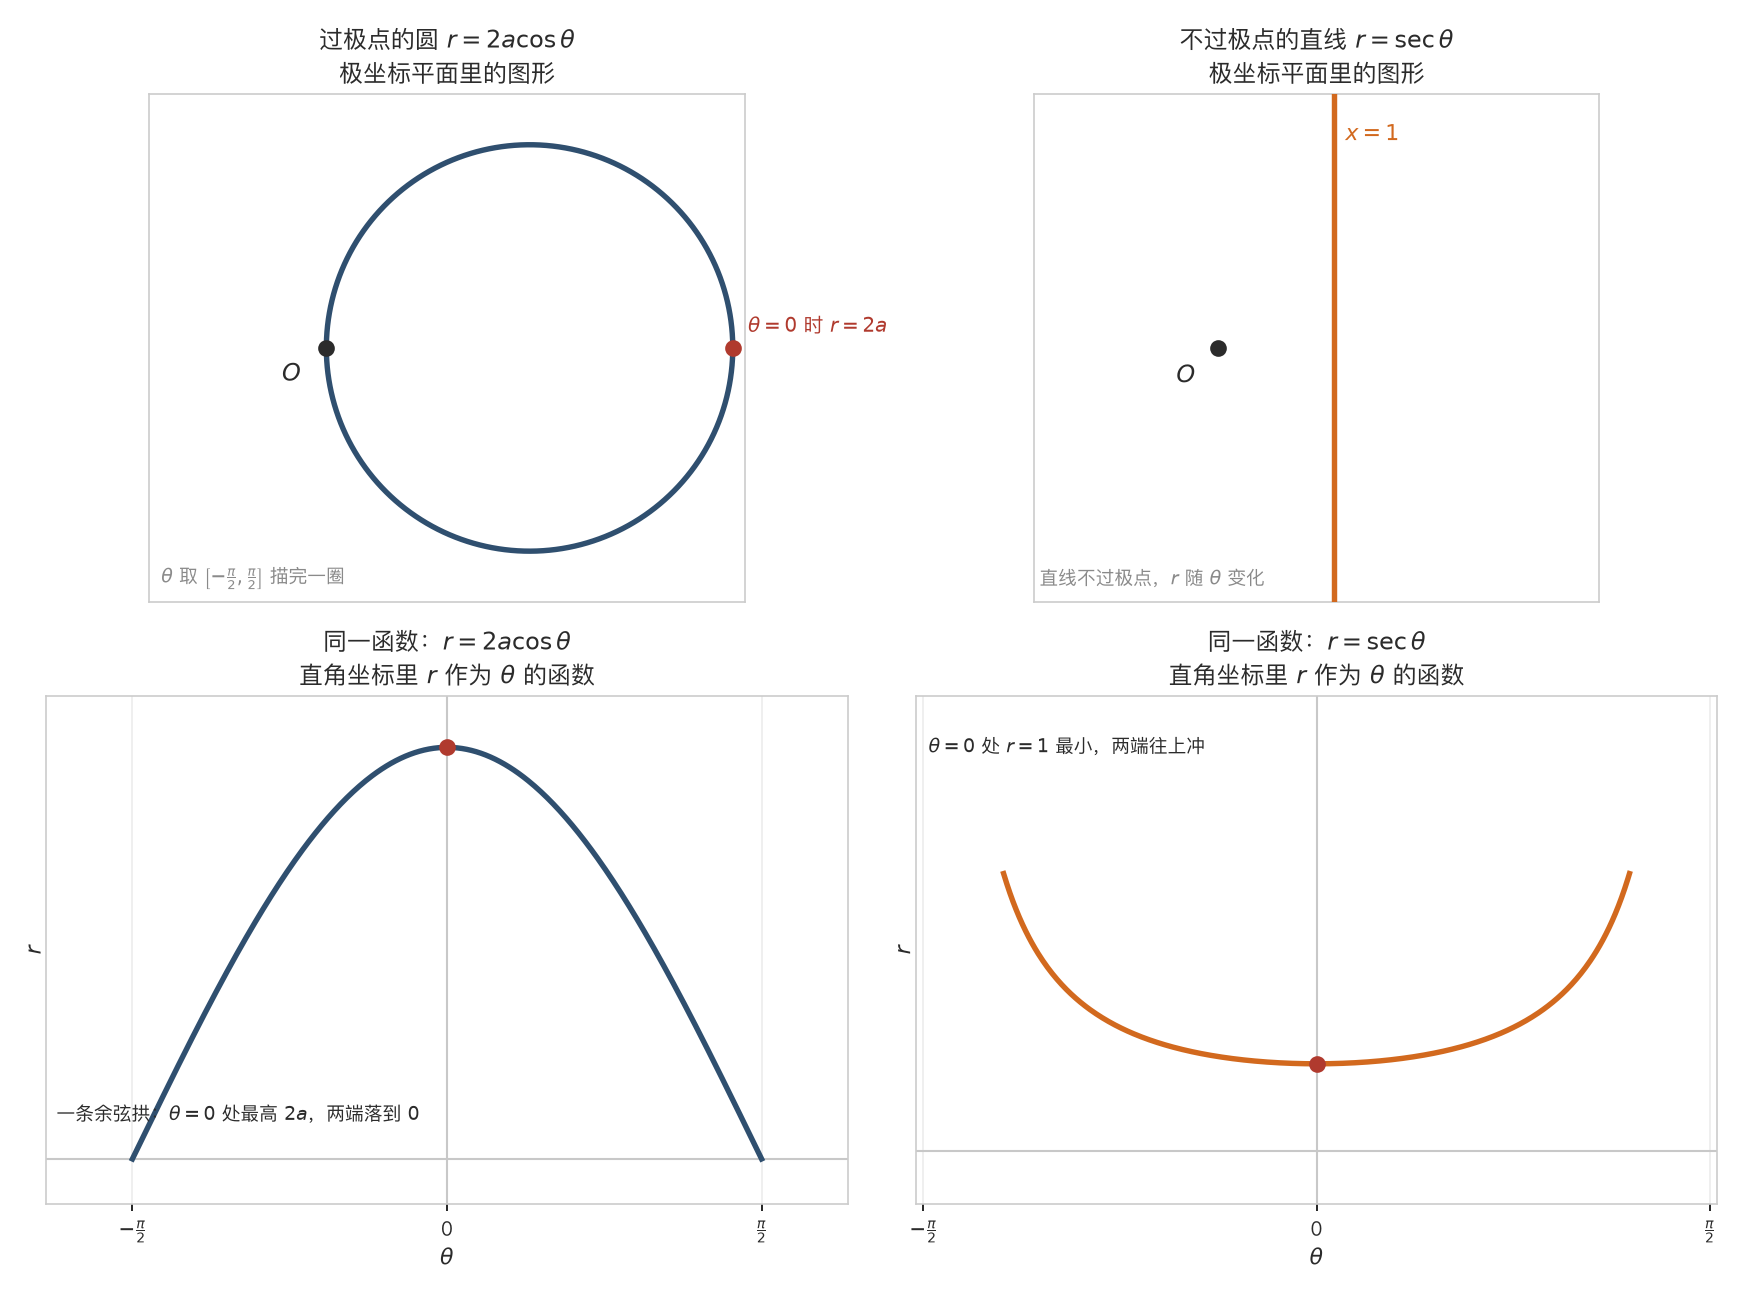
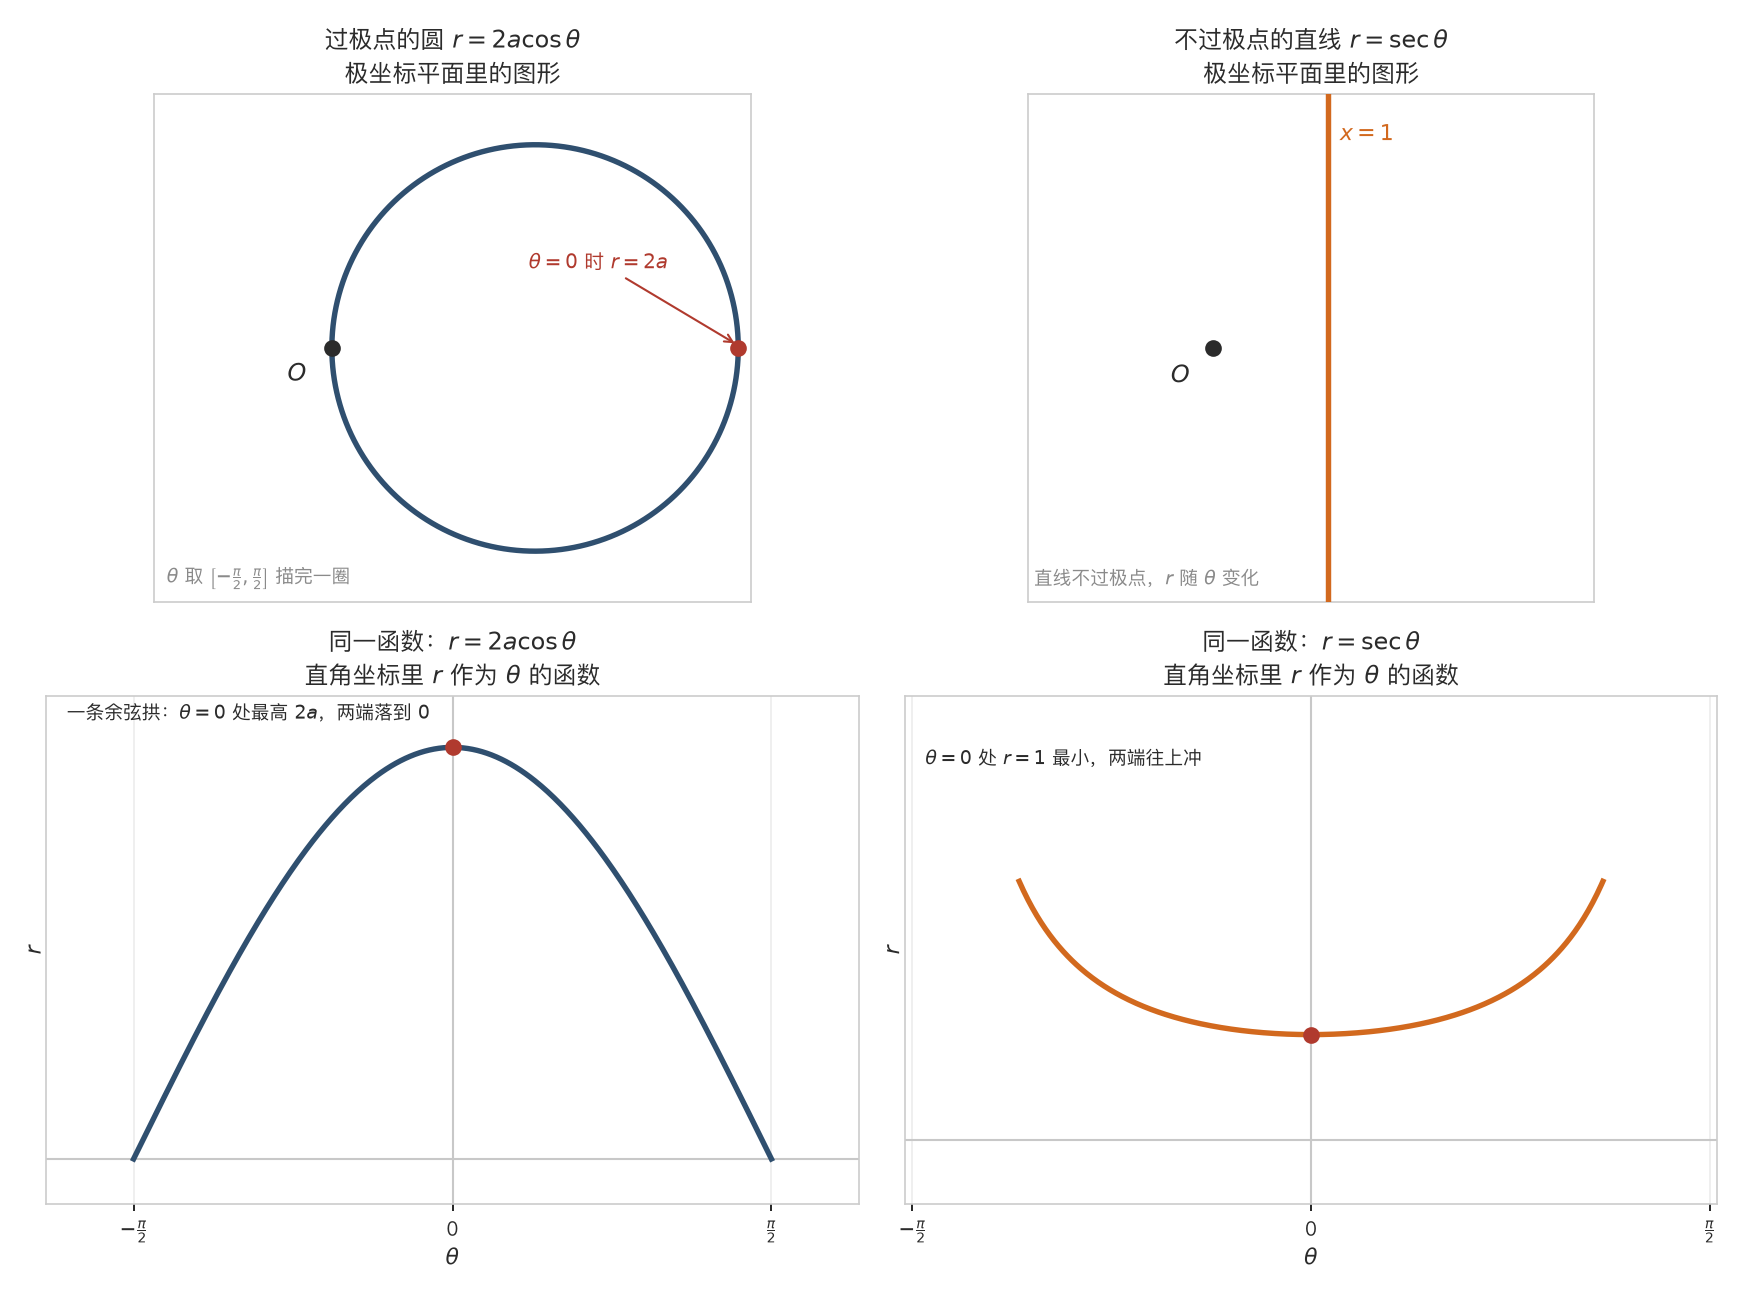
img: unify label placement in circle/line figure

diff --git a/img/kaoyan-math/make_polar_more.py b/img/kaoyan-math/make_polar_more.py
@@ -40,7 +40,8 @@ ax.plot(2 * a * np.cos(tt) * np.cos(tt), 2 * a * np.cos(tt) * np.sin(tt), color=
 ax.plot([0], [0], "o", color=INK, ms=7, zorder=6)
 ax.plot([2 * a], [0], "o", color=RED, ms=7, zorder=6)
 ax.text(-0.20, -0.26, "$O$", fontsize=F, color=INK, ha="right")
-ax.text(2 * a + 0.12, 0.12, "$\\theta=0$ 时 $r=2a$", fontsize=F - 2, color=RED)
+ax.annotate("$\\theta=0$ 时 $r=2a$", xy=(2 * a, 0.02), xytext=(1.55, 0.62),
+            fontsize=F - 2, color=RED, arrowprops=dict(arrowstyle="->", color=RED, lw=1.0))
 ax.text(-1.30, -1.85, "$\\theta$ 取 $\\left[-\\frac{\\pi}{2},\\frac{\\pi}{2}\\right]$ 描完一圈", fontsize=F - 2.5, color=GREY)
 
 # 右上：极坐标平面里的直线
@@ -74,11 +75,11 @@ ax.set_ylabel(r"$r$", fontsize=F - 1, color=INK, labelpad=1)
 tt = np.linspace(-np.pi / 2, np.pi / 2, 400)
 ax.plot(tt, 2 * a * np.cos(tt), color=BLUE, lw=2.6, zorder=3)
 ax.plot([0], [2 * a], "o", color=RED, ms=7, zorder=5)
-ax.text(-1.95, 0.30, "一条余弦拱：$\\theta=0$ 处最高 $2a$，两端落到 $0$", fontsize=F - 2.5, color=INK)
+ax.text(-1.90, 3.42, "一条余弦拱：$\\theta=0$ 处最高 $2a$，两端落到 $0$", fontsize=F - 2.5, color=INK)
 
 # 右下：sec
 ax = axes[1][1]
-ax.set_xlim(-1.6, 1.6); ax.set_ylim(-0.6, 5.2)
+ax.set_xlim(-1.6, 1.6); ax.set_ylim(-0.6, 4.2)
 ax.grid(True, color="#ececec", lw=0.8)
 ax.axhline(0, color="#c8c8c8", lw=1.0)
 ax.axvline(0, color="#c8c8c8", lw=1.0)
@@ -90,11 +91,11 @@ for sp in ax.spines.values():
 ax.set_title("同一函数：$r=\\sec\\theta$\n直角坐标里 $r$ 作为 $\\theta$ 的函数", fontsize=11.5, color=INK, pad=6)
 ax.set_xlabel(r"$\theta$", fontsize=F - 1, color=INK, labelpad=1)
 ax.set_ylabel(r"$r$", fontsize=F - 1, color=INK, labelpad=1)
-tt = np.linspace(-1.25, 1.25, 400)
+tt = np.linspace(-1.15, 1.15, 400)
 rr = 1 / np.cos(tt)
 ax.plot(tt, rr, color=ORANGE, lw=2.6, zorder=3)
 ax.plot([0], [1], "o", color=RED, ms=7, zorder=5)
-ax.text(-1.55, 4.55, "$\\theta=0$ 处 $r=1$ 最小，两端往上冲", fontsize=F - 2.5, color=INK)
+ax.text(-1.52, 3.55, "$\\theta=0$ 处 $r=1$ 最小，两端往上冲", fontsize=F - 2.5, color=INK)
 
 fig.tight_layout(); fig.savefig(BASE + "pc-circle-line.png", dpi=150); plt.close(fig)
 
